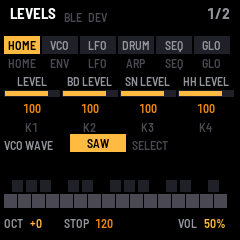
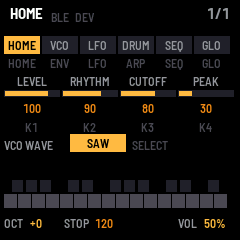
HOME as one page: LEVEL, RHYTHM, CUTOFF, PEAK
Keep to the monotribe's controls: undo the per-drum levels and the
two-page HOME. HOME is the start page with the synth's LEVEL, the drums'
RHYTHM, CUTOFF and PEAK. Tests, manual, quickstart, screenshots and
v0.4.1-alpha notes updated; FX noted as the drum rolls button to come.

Claude-Session: https://claude.ai/code/session_017ui7VjCWMFsYUM5oLQjnQg

diff --git a/app/app.c b/app/app.c
@@ -14,7 +14,7 @@
 /* every setting the panel edits, by number: a knob's 0..127, or a switch's position (its OPT names) */
 enum { P_CUTOFF, P_PEAK, P_WAVE, P_NOISE, P_EG, P_LEVEL, P_RHYTHM, P_LRATE, P_LINT, P_LTARGET, P_LMODE, P_LWAVE,
        P_SYNTH_CH, P_DRUM_CH, P_BLE, P_BD_DEC, P_SN_DEC, P_HH_DEC, P_KEYLIGHT, P_GLOW,
-       P_TEMPO, P_PART, P_GATE, P_SWING, P_SYNC, P_CLKOUT, P_RANGE, P_BD_LVL, P_SN_LVL, P_HH_LVL,
+       P_TEMPO, P_PART, P_GATE, P_SWING, P_SYNC, P_CLKOUT, P_RANGE,
        NSAVED,                                   /* the settings saved; after them, what the knobs edit elsewhere: */
        P_STEPS16 = NSAVED,                       /* the pattern's 16-step synth */
        P_EDSTEP, P_EDNOTE, P_EDGATE, P_EDON,     /* the step editor: its slot, and that slot's note, gate, on */
@@ -70,9 +70,6 @@ static const param_t PAR[NP] = {
     {"SYNC", 2, SYNC_OPT, 0, 0, 0},            /* the internal tempo, or MIDI clock in */
     {"CLOCK OUT", 2, OFFON_OPT, 1, 0, 0},      /* MIDI clock, start and stop out */
     {"RANGE", 3, RANGE_OPT, 2, 0, 0},          /* the ribbon's range (WIDE and NARROW not yet: the keys play KEY) */
-    {"BD LEVEL", 0, 0, 100, 0, 0},             /* each drum's level: 100 the stock mix (RHYTHM over all three) */
-    {"SN LEVEL", 0, 0, 100, 0, 0},
-    {"HH LEVEL", 0, 0, 100, 0, 0},
     {"STEPS", 2, STEPS_OPT, 0, 0, 0},          /* (the pattern's) */
     {"STEP", 0, 0, 0, 0, 15},
     {"NOTE", 0, 0, 60, 0, 0},
@@ -91,11 +88,10 @@ typedef struct {
 /* the pages, after the monotribe's panel: ENV the VCO, then the VCF and VCA; LFO; ARP the drums; SEQ the step row (on
  * the keys) and the step editor; GLO the MIDI, Bluetooth and lights. SELECT is the VCO's WAVE (on SEQ, the step
  * cursor), ALGO the LFO's WAVE on LFO, OCT- / OCT+ the octave everywhere */
-enum { PG_HOME, PG_HOME2, PG_VCO, PG_VCF, PG_LFO, PG_DRUMS, PG_SEQ, PG_EDIT, PG_GLOBAL, PG_GLOBAL2, PG_DEVICES, NPG };
+enum { PG_HOME, PG_VCO, PG_VCF, PG_LFO, PG_DRUMS, PG_SEQ, PG_EDIT, PG_GLOBAL, PG_GLOBAL2, PG_DEVICES, NPG };
 static const page_t PAGE[NPG] = {
-    /* HOME, the start page: each instrument's level; then the tempo and the filter */
-    {"LEVELS", "HOME", B_HOME, {P_LEVEL, P_BD_LVL, P_SN_LVL, P_HH_LVL}},
-    {"TEMPO VCF", "HOME", B_HOME, {P_TEMPO, P_CUTOFF, P_PEAK, -1}},
+    /* HOME, the start page: the synth's and the drums' levels, and the filter */
+    {"HOME", "HOME", B_HOME, {P_LEVEL, P_RHYTHM, P_CUTOFF, P_PEAK}},
     {"VCO", "VCO", B_ENV, {P_NOISE, P_RANGE, -1, -1}},
     {"VCF VCA", "VCO", B_ENV, {P_CUTOFF, P_PEAK, P_LEVEL, P_EG}},
     {"LFO", "LFO", B_LFO, {P_LRATE, P_LINT, P_LTARGET, P_LMODE}},
@@ -109,7 +105,7 @@ static const page_t PAGE[NPG] = {
     {"DEVICES", "GLO", B_GLO, {P_BLEDEV, -1, -1, -1}},   /* SAVE connects the pick, or lets it go (lib/btdev) */
 };
 
-#define SET_MAGIC 0x38544D46u            /* "FMT8": the settings record; another magic loads defaults */
+#define SET_MAGIC 0x37544D46u            /* "FMT7": the settings record; another magic loads defaults */
 typedef struct {
     uint32_t magic;
     int8_t octave;                       /* -3 .. +2: six positions, as the monotribe's 64' .. 2' */
@@ -208,9 +204,6 @@ static void engine_update(void)          /* the settings to the engine */
     p.decay[0] = fm_exp2f(((float)set.v[P_BD_DEC] - 32.0f) / 24.0f);   /* 32 stock; 0 x0.4 .. 127 x15 */
     p.decay[1] = fm_exp2f(((float)set.v[P_SN_DEC] - 32.0f) / 24.0f);
     p.decay[2] = fm_exp2f(((float)set.v[P_HH_DEC] - 32.0f) / 24.0f);
-    p.drum_lvl[0] = set.v[P_BD_LVL] / 100.0f;    /* 100 the stock mix, 127 ~+2 dB */
-    p.drum_lvl[1] = set.v[P_SN_LVL] / 100.0f;
-    p.drum_lvl[2] = set.v[P_HH_LVL] / 100.0f;
     tribe_set(&p);
     seq_tempo((float)set.v[P_TEMPO] * (half_tempo ? 0.5f : 1.0f));
     seq_swing((float)set.v[P_SWING] / 127.0f);
@@ -1428,7 +1421,7 @@ int app_expect(const char *what, int *got)
     static const char *const P[NP] = {"cutoff", "peak", "wave", "noise", "eg", "level", "rhythm", "rate", "int",
                                       "target", "mode", "lwave", "synth_ch", "drum_ch", "ble_off", "bd_dec", "sn_dec",
                                       "hh_dec", "keylight", "glow", "tempo", "part", "gate", "swing", "sync",
-                                      "clkout", "range", "bd_lvl", "sn_lvl", "hh_lvl", "steps16", "edstep", "ednote", "edgate", "edon", "bledev"};
+                                      "clkout", "range", "steps16", "edstep", "ednote", "edgate", "edon", "bledev"};
     int i;
     for (i = 0; i < NP; i++)                 /* a setting by its name: its 0..127, or its switch's position */
         if (!strcmp(what, P[i])) {
@@ -1455,7 +1448,7 @@ int app_expect(const char *what, int *got)
     else
     if (!strcmp(what, "octave"))
         *got = set.octave;
-    else if (!strcmp(what, "page"))         /* PG_*: HOME 0 1, VCO 2, VCF VCA 3, LFO 4, DRUMS 5, STEP 6, EDIT 7, GLO 8 9 10 */
+    else if (!strcmp(what, "page"))         /* PG_*: HOME 0, VCO 1, VCF VCA 2, LFO 3, DRUMS 4, STEP 5, EDIT 6, GLO 7 8 9 */
         *got = ui.page;
     else if (!strcmp(what, "gate_live"))    /* GATE TIME's gate (-1 none), GATE TIME HOLD, HALF TEMPO */
         *got = gate_val;

diff --git a/app/dsp/tribe.c b/app/dsp/tribe.c
@@ -17,7 +17,7 @@
 
 /* ------------------------------------------------------------ the settings --- */
 static tribe_params_t par = {.cutoff = 0.6f, .peak = 0.3f, .level = 0.8f, .rhythm = 0.7f, .lfo_rate = 0.5f,
-                             .decay = {1.0f, 1.0f, 1.0f}, .drum_lvl = {1.0f, 1.0f, 1.0f}};
+                             .decay = {1.0f, 1.0f, 1.0f}};
 static volatile uint32_t par_seq;               /* bumped by tribe_set: the render copies at a block's start */
 static tribe_params_t live;                     /* the render's copy */
 static uint32_t live_seq;
@@ -249,14 +249,14 @@ static inline void ping_hit(ping_t *p)
 static inline float drums(void)
 {
     float s, n, v, hp;
-    s = BD_GAIN * live.drum_lvl[0] * ping(&bd, BD_HZ, k_bd, r_bd);
-    s += SN_TONE * live.drum_lvl[1] * ping(&sn, SN_HZ, k_sn, r_sn);
+    s = BD_GAIN * ping(&bd, BD_HZ, k_bd, r_bd);
+    s += SN_TONE * ping(&sn, SN_HZ, k_sn, r_sn);
     if (sn_namp > 1e-5f || hh_amp > 1e-5f) {
         n = white();
         v = (n - sn_hp) * hp_sn_g;              /* SN noise: a one-pole high-pass (TPT) */
         hp = n - (v + sn_hp);
         sn_hp += v + v;
-        s += SN_NOISE * live.drum_lvl[1] * sn_namp * hp;
+        s += SN_NOISE * sn_namp * hp;
         sn_namp *= k_snn;
         /* HH: a TPT state-variable filter's high-pass, 4 kHz, Q 0.707 */
         hp = (n - (hh_r + hh_g) * hh_s1 - hh_s2) / (1.0f + hh_r * hh_g + hh_g * hh_g);   /* hh_r: 2R */
@@ -267,7 +267,7 @@ static inline float drums(void)
             v = hh_g * bp;
             hh_s2 = hh_s2 + v + v;
         }
-        s += HH_GAIN * live.drum_lvl[2] * hh_amp * hp;
+        s += HH_GAIN * hh_amp * hp;
         hh_amp *= k_hh;
     }
     return s;
@@ -439,8 +439,6 @@ void tribe_set(const tribe_params_t *p)
         int d;
         for (d = 0; d < 3; d++)
             par.decay[d] = fm_clampf(par.decay[d], 0.25f, 16.0f);
-        for (d = 0; d < 3; d++)
-            par.drum_lvl[d] = fm_clampf(par.drum_lvl[d], 0.0f, 1.5f);
     }
     par_seq++;
 }

diff --git a/tests/host/tribe_test.c b/tests/host/tribe_test.c
@@ -115,7 +115,7 @@ static double filter_gain(float cut01, float peak01, double hz)
 int main(int argc, char **argv)
 {
     tribe_params_t p = {.cutoff = 0.6f, .level = 1.0f, .rhythm = 1.0f, .wave = TRIBE_SAW, .eg = TRIBE_DECAY,
-                        .decay = {1.0f, 1.0f, 1.0f}, .drum_lvl = {1.0f, 1.0f, 1.0f}};
+                        .decay = {1.0f, 1.0f, 1.0f}};
     int i, n;
     double f, g1, g2;
     wav_dir = argc > 1 ? argv[1] : 0;
@@ -272,20 +272,6 @@ int main(int argc, char **argv)
             CHECK(fabs(0.1 / log(a1 / a2) * 1000 - 110) < 12, "BD DECAY x2: tau %.0f ms (110)", 0.1 / log(a1 / a2) * 1000);
             p.decay[0] = 1.0f;
         }
-        {                                        /* a drum's own level: SN at half, 6 dB down; BD untouched */
-            double a1, a2;
-            reset(&p);
-            tribe_drum(TRIBE_SN);
-            render(buf, 4410);
-            a1 = rms(buf, 4410);
-            p.drum_lvl[1] = 0.5f;
-            reset(&p);
-            tribe_drum(TRIBE_SN);
-            render(buf, 4410);
-            a2 = rms(buf, 4410);
-            CHECK(fabs(20 * log10(a1 / a2) - 6.02) < 0.5, "SN LEVEL x0.5: %.2f dB down (6.02)", 20 * log10(a1 / a2));
-            p.drum_lvl[1] = 1.0f;
-        }
         printf("       RMS 0-100 ms: BD %.1f, SN %.1f, HH %.1f dBFS\n", r[0], r[1], r[2]);
         CHECK(fabs(r[0] - r[1] - 7) < 1.5, "SN %.1f dB under BD (EST 7)", r[0] - r[1]);
         CHECK(fabs(r[0] - r[2] - 21) < 1.5, "HH %.1f dB under BD (EST 21)", r[0] - r[2]);
@@ -304,7 +290,6 @@ int main(int argc, char **argv)
         /* the LFO itself: a triangle at FAST, its period counted from its own output */
         memset(&p, 0, sizeof p);
         p.decay[0] = p.decay[1] = p.decay[2] = 1.0f;
-        p.drum_lvl[0] = p.drum_lvl[1] = p.drum_lvl[2] = 1.0f;
         p.cutoff = 0.6f; p.level = 1.0f; p.eg = TRIBE_GATE; p.lfo_mode = TRIBE_LFO_FAST; p.lfo_wave = TRIBE_LFO_TRI;
         p.lfo_rate = 0.5f;
         reset(&p);

diff --git a/app/dsp/tribe.h b/app/dsp/tribe.h
@@ -27,7 +27,6 @@ typedef struct {
     float lfo_rate;    /* 0..1: RATE, exponential over the MODE's range (FAST 1 Hz..5 kHz, SLOW and 1SHOT 0.05..18 Hz) */
     float lfo_int;     /* 0..1: INT., 0 none */
     float decay[3];    /* the drums' decays, BD SN HH: a multiple of the stock time (1 stock; the decay mods' range) */
-    float drum_lvl[3]; /* each drum's level, BD SN HH: a multiple of the stock mix (1 stock; 0 silent .. 1.27) */
     uint8_t wave;      /* TRIBE_SAW .. */
     uint8_t eg;        /* TRIBE_DECAY .. */
     uint8_t lfo_target;   /* TRIBE_LFO_VCO .. */

diff --git a/app/docs/MANUAL.md b/app/docs/MANUAL.md
@@ -42,11 +42,11 @@ can recover an FM-1 that doesn't start, too. For details, see felucca-bsp's `too
 
 ## 2. The screen
 
-![HOME 1/2, the LEVELS page FMtribe starts on: LEVEL, BD LEVEL, SN LEVEL and HH LEVEL, all 100](img/screen-ready.png "The LEVELS page")
+![HOME, the page FMtribe starts on: LEVEL 100, RHYTHM 90, CUTOFF 80, PEAK 30](img/screen-ready.png "The HOME page")
 
 | Part | What it shows |
 | --- | --- |
-| Header | The page you're on, such as LEVELS, and BLE and DEV, which light while a computer or a Bluetooth MIDI device is connected. At the right, which page of its button it is, such as 2/2, and while you play a key, the note. After a change, a message shows here for a moment, such as CUTOFF 100. |
+| Header | The page you're on, such as HOME, and BLE and DEV, which light while a computer or a Bluetooth MIDI device is connected. At the right, which page of its button it is, such as 2/2, and while you play a key, the note. After a change, a message shows here for a moment, such as CUTOFF 100. |
 | Tabs | The pages' buttons: HOME, VCO (ENV), LFO, DRUM (ARP), SEQ and GLO. The one you're on is lit, and so is its button. |
 | K1 to K4 | What the four knobs do on this page. A knob shows a bar and its value; a switch shows its position. Each lights for a moment as you turn it. |
 | Below the knobs | On the synth pages, the VCO's WAVE (SELECT) and, on LFO, the LFO's WAVE (ALGO). On DRUMS, the pads. On STEP, the pattern, a row a part. On EDIT, the synth's steps as a piano roll. |
@@ -57,14 +57,14 @@ can recover an FM-1 that doesn't start, too. For details, see felucca-bsp's `too
 
 ## 3. Controls
 
-FMtribe starts on HOME, with the levels and the controls you reach for most. The other pages follow the monotribe's
-panel from left to right: the VCO and VCF on ENV, then the LFO, then the drums and the sequencer. A page's button shows it; press the button again for its next page. The four knobs K1 to K4 edit
+FMtribe starts on HOME: the synth's and the drums' levels and the filter, the knobs you reach for most while
+playing. The other pages follow the monotribe's panel from left to right: the VCO and VCF on ENV, then the LFO,
+then the drums and the sequencer. A page's button shows it; press the button again for its next page. The four knobs K1 to K4 edit
 the page on the screen. A switch moves one position for each click of the knob.
 
 | Page (button) | K1 | K2 | K3 | K4 |
 | --- | --- | --- | --- | --- |
-| LEVELS 1/2 (HOME) | LEVEL | BD LEVEL | SN LEVEL | HH LEVEL |
-| TEMPO VCF 2/2 (HOME) | TEMPO | CUTOFF | PEAK | |
+| HOME (HOME) | LEVEL | RHYTHM | CUTOFF | PEAK |
 | VCO 1/2 (ENV) | NOISE | RANGE | | |
 | VCF VCA 2/2 (ENV) | CUTOFF | PEAK | LEVEL | EG |
 | LFO (LFO) | RATE | INT | TARGET | MODE |
@@ -93,15 +93,14 @@ Three controls do the same job on every page:
 | WAVE (SELECT) | The oscillator: saw, triangle or square. |
 | CUTOFF | The filter's cutoff, from about 80 Hz to about 18 kHz. |
 | PEAK | The filter's resonance. Near the top, the filter whistles on its own at the cutoff while a note plays. |
-| LEVEL | The synth's volume (on HOME 1/2 and VCF VCA 2/2). |
+| LEVEL | The synth's volume. |
 | EG | The envelope. DECAY jumps to full when a note starts and dies away over about 1.3 seconds, even while you hold the key. GATE stays full while you hold it. ATTACK rises over about 1.3 seconds while you hold it. All three close quickly when you let go. |
 | RATE | The LFO's speed: about 1 Hz to 5 kHz in FAST, 0.05 Hz to 18 Hz in SLOW and 1 SHOT. |
 | INT | How much the LFO moves the pitch or the filter, from none at 0. At the top, the pitch swings an octave either way and the cutoff three octaves. |
 | TARGET | What the LFO moves: VCO (the pitch), VCO+VCF (both) or VCF (the cutoff). |
 | MODE | FAST and SLOW run all the time. FAST and 1 SHOT start again with each new note. 1 SHOT plays half a cycle when a note starts and then stops, like a second envelope. |
 | WAVE (ALGO) | The LFO: saw (falling), triangle, square, or S&H, a new random level each cycle. |
-| RHYTHM | The drums' volume, all three together. |
-| BD LEVEL · SN LEVEL · HH LEVEL | Each drum's own volume, under RHYTHM. 100 is the monotribe's balance between them; 127 is about 2 dB louder, 0 silent. The monotribe has no such controls; they're FMtribe's own. |
+| RHYTHM | The drums' volume. |
 | BD DECAY · SN DECAY · HH DECAY | Each drum's decay, as the popular hardware decay mods give it. 32 is the stock decay; lower is shorter, higher is up to about 15 times as long. |
 | SYNTH CH | The MIDI channel the synth plays on and the keys send on, 1 to 16 (1 at first). |
 | DRUM CH | The MIDI channel the drums play on and send on, 1 to 16 (10 at first). |

diff --git a/CLAUDE.md b/CLAUDE.md
@@ -38,12 +38,12 @@ VCO → Korg35 ZDF filter → EGs → LFO → drums → sequencer. Add a host un
 each, as GIO-1's `tests/host/` does.
 
 Done (0.2): `app/dsp/tribe.c` — PolyBLEP/BLAMP VCO and the Korg35 (Pirkle AN-5) run 2x oversampled with a 35-tap
-halfband; Decay/Gate/Attack EGs; BD/SN/HH (each with its own level, drum_lvl, 1 = stock mix; FMtribe's addition). `tests/host/tribe_test.c` checks each against the estimates above (and
+halfband; Decay/Gate/Attack EGs; BD/SN/HH. `tests/host/tribe_test.c` checks each against the estimates above (and
 writes WAVs); `app/tests/sound.txt` covers the panel and MIDI map. Constants marked GUESS in tribe.c (Gate/Attack,
 release ~12 ms, SN tone/noise balance) wait for the prototype comparison. Known gap: self-oscillation level rises
 ~2.5 dB from 80 Hz to 18 kHz; the recordings suggest it falls ~6 dB from 200 Hz to 3.5 kHz.
-UI (0.4): pages on buttons (app.c PAGE[]), HOME first (the start page: LEVELS 1/2 = LEVEL, BD/SN/HH LEVEL;
-TEMPO VCF 2/2 = TEMPO, CUTOFF, PEAK), then the monotribe's panel left to right: a button shows its first page,
+UI (0.4): pages on buttons (app.c PAGE[]), HOME first (the start page, 1/1: LEVEL, RHYTHM, CUTOFF, PEAK), then the monotribe's panel left to
+right: a button shows its first page,
 pressed again its next; K1–K4 edit the page; the header shows the page name (left, in place of the app name) and x/y (right). ENV VCO 1/2 (NOISE
 RANGE; RANGE WIDE/NARROW/KEY stored, only KEY plays yet) and VCF VCA 2/2 (CUTOFF PEAK LEVEL EG); LFO (RATE INT TARGET
 MODE); ARP DRUMS (RHYTHM, BD/SN/HH DECAY; F#-G#-A# black keys are pads); SEQ STEP 1/2 (TEMPO SWING STEPS GATE) and
@@ -51,7 +51,8 @@ EDIT 2/2 (STEP NOTE GATE ON, piano roll); GLO MIDI 1/3 (SYNTH CH DRUM CH SYNC CL
 LIGHT, GLOW), DEVICES 3/3 (K1 picks, SAVE connects/lets go; scans while the page is up). Constant everywhere: OCT-/+
 the octave; SELECT the VCO WAVE (on SEQ pages the step cursor ed_slot); ALGO the LFO WAVE on LFO; PRESET the part on SEQ
 pages (part_pick; also the black part keys on STEP). EDIT edits the picked part: synth piano roll, or a drum's 16
-slots (cursor by slot, K4 ON its hits, NOTE/GATE '-'). SEL, EDIT, FX free (the user will assign SEL later). Settings are PAR[] (knob 0..127 or switch), saved as "FMT8" with
+slots (cursor by slot, K4 ON its hits, NOTE/GATE '-'). SEL, EDIT free (the user will assign SEL later); FX
+planned as the drum rolls button. Keep to the monotribe's controls (no per-drum levels: RHYTHM only). Settings are PAR[] (knob 0..127 or switch), saved as "FMT7" with
 the pattern. pget/pset reach pattern-backed settings (STEPS, EDIT's STEP/NOTE/GATE/ON) and the BLE device pick (NSAVED).
 Sequencer (0.3, UI 0.4): app/seq/seq.c (o2), tests/host/seq_test.c, app/tests/seq.txt. 8 steps x 2 slots, parts
 SYNTH/BD/SN/HH, per-part active steps, gate per synth slot (127 tie), 16-step synth, swing, 96 ppqn ticks in the

diff --git a/app/site/quickstart.md b/app/site/quickstart.md
@@ -22,12 +22,11 @@ To go back to M-VAVE's firmware, or to another one, open the same installer and 
 ## 3. Play
 
 Press a page button, then turn K1 to K4 to edit that page. Press the button again for its next page; the header
-shows which one, such as LEVELS 1/2. FMtribe starts on HOME.
+shows which one, such as VCF VCA 2/2. FMtribe starts on HOME.
 
 | Page (button) | K1 | K2 | K3 | K4 |
 | --- | --- | --- | --- | --- |
-| LEVELS 1/2 (HOME) | LEVEL | BD LEVEL | SN LEVEL | HH LEVEL |
-| TEMPO VCF 2/2 (HOME) | TEMPO | CUTOFF | PEAK | |
+| HOME (HOME) | LEVEL | RHYTHM | CUTOFF | PEAK |
 | VCO 1/2 (ENV) | NOISE | RANGE | | |
 | VCF VCA 2/2 (ENV) | CUTOFF | PEAK | LEVEL | EG |
 | LFO (LFO) | RATE | INT | TARGET | MODE |

diff --git a/docs/releases/v0.4.1-alpha.md b/docs/releases/v0.4.1-alpha.md
@@ -4,6 +4,4 @@
 - On the SEQ pages, PRESET picks the part: SYNTH, BD, SN or HH. The black part keys on STEP still work too.
 - EDIT edits the picked part. For a drum it shows its 16 slots, each step and its half, and K4 ON sets each hit;
   SELECT moves through the half-steps too.
-- HOME is the start page. HOME 1/2, LEVELS: the synth's LEVEL and a level for each drum (BD, SN, HH; 100 is the
-  stock balance, under RHYTHM). HOME 2/2: TEMPO, CUTOFF and PEAK.
-- Settings saved by 0.4-alpha don't carry over.
+- HOME is the start page: LEVEL (the synth), RHYTHM (the drums), CUTOFF and PEAK.
